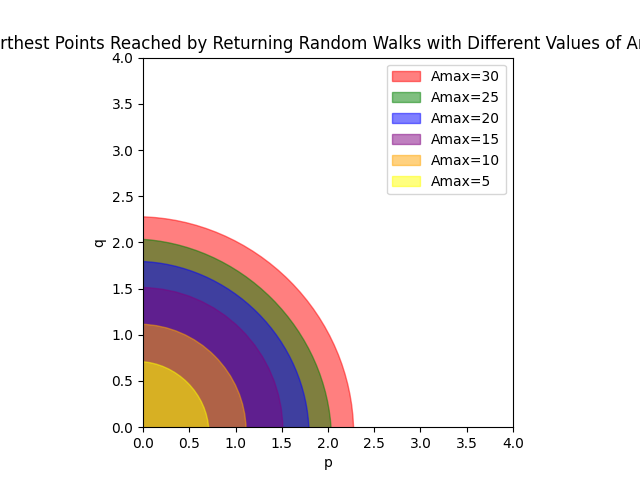
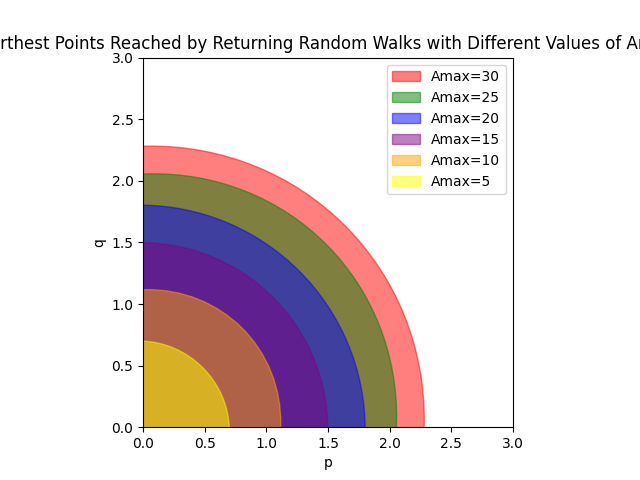
updating

diff --git a/thomasrun/test_gluon_walker/pq_countour.py b/thomasrun/test_gluon_walker/pq_countour.py
@@ -28,8 +28,8 @@ fig = plt.figure(0)
 ax = fig.add_subplot(111, aspect='equal')
 ax.set_xlabel("p")
 ax.set_ylabel("q")
-ax.set_xlim(0,4)
-ax.set_ylim(0,4)
+ax.set_xlim(0,3)
+ax.set_ylim(0,3)
 ax.set_title("Furthest Points Reached by Returning Random Walks with Different Values of Amax")
 colors = ["red","green","blue","purple","orange","yellow"]
 handles = []
